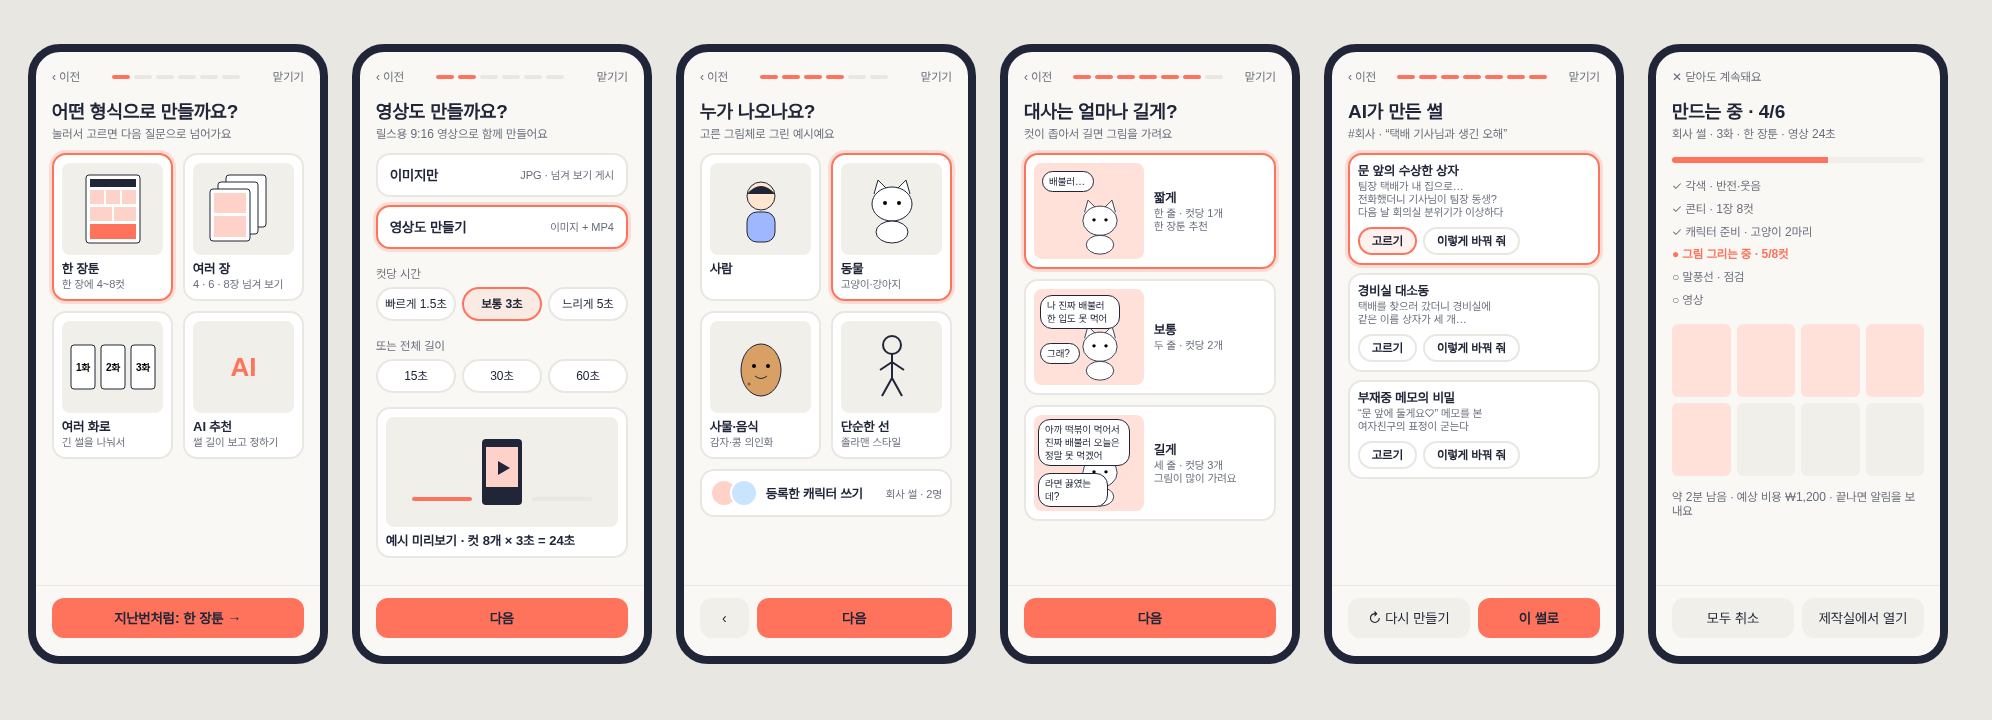
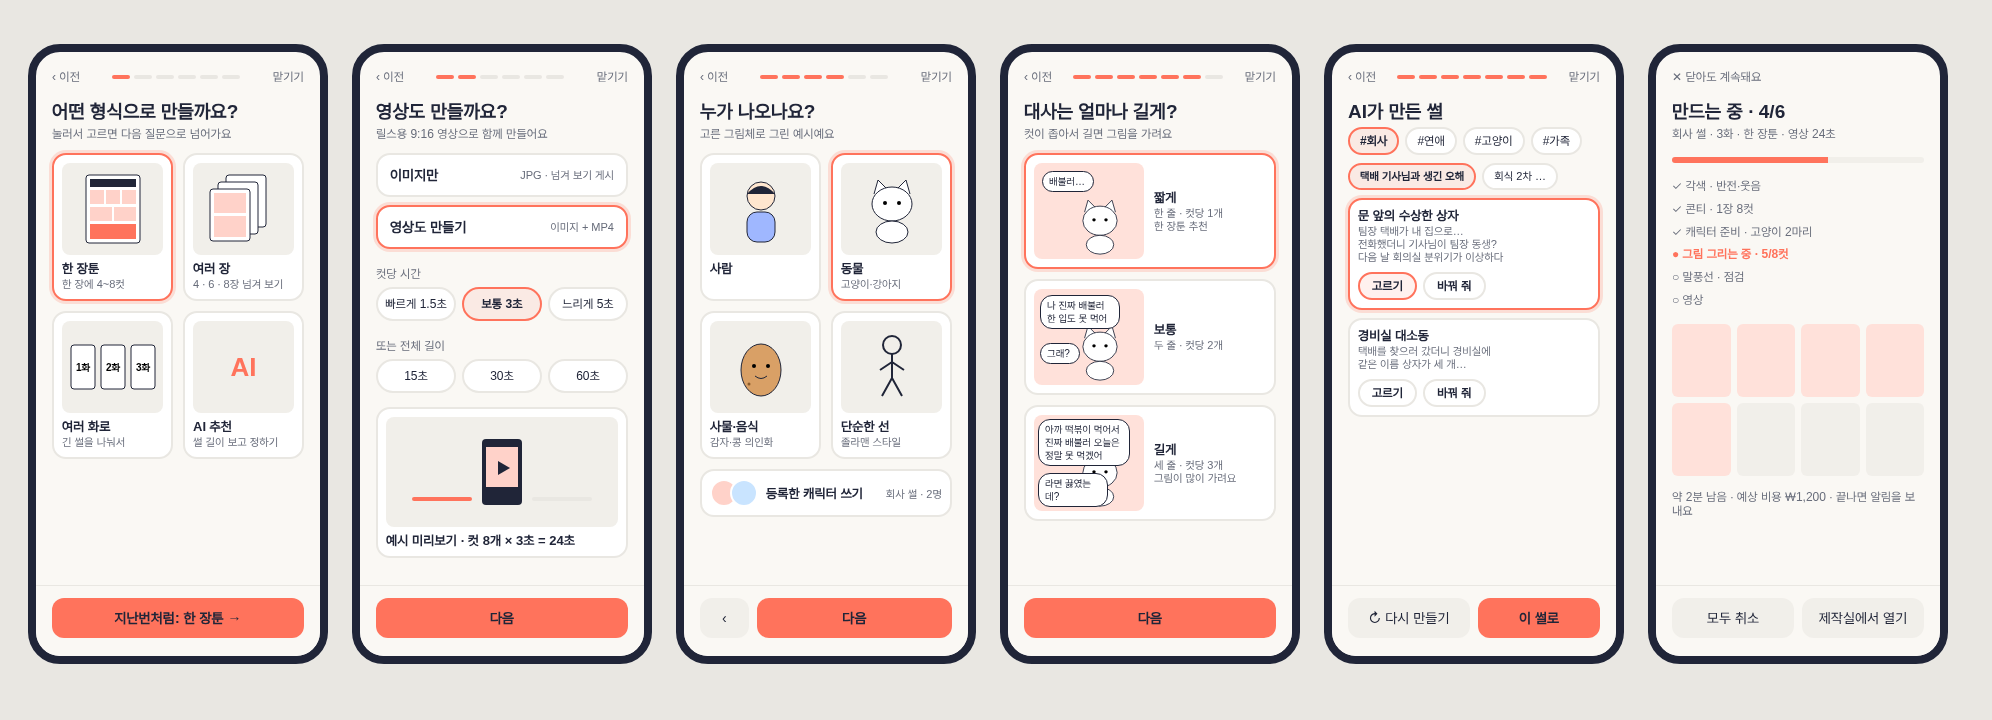
docs(quick): 썰 주제·한 줄 설명도 AI 추천 (QCK-18)

Changed region(s): [[0.6536, 0.1528, 0.8092, 0.6417]]

diff --git a/docs/design/mockups/quick-mockup.html b/docs/design/mockups/quick-mockup.html
@@ -58,7 +58,7 @@ h2{font-size:19px;margin:10px 16px 4px}p.s{font-size:12px;color:#686d7b;margin:0
 <div class="bot"><div class="btn g">‹</div><div class="btn" style="flex:4">다음</div></div>
 </div><div class="cap">④ 등장인물 모양</div></div></div>
 
-<div><div class="ph"><div style="position:absolute;inset:0;overflow:hidden;border-radius:24px;display:flex;flex-direction:column"><div class="top"><span>‹ 이전</span><div class="dots"><i class="on"></i><i class="on"></i><i class="on"></i><i class="on"></i><i class="on"></i><i class="on"></i><i></i></div><span>맡기기</span></div><h2>대사는 얼마나 길게?</h2><p class="s">컷이 좁아서 길면 그림을 가려요</p><div class="grid" style="grid-template-columns:1fr"><div class="c sel" style="display:grid;grid-template-columns:110px 1fr;gap:10px;align-items:center"><div class="th" style="height:96px;margin:0;position:relative;background:#ffe1da;overflow:hidden"><svg width="60" height="60" viewBox="0 0 70 70" style="position:absolute;bottom:4px;right:14px"><path d="M17 20l4-14 10 10M53 20l-4-14-10 10" fill="#fff" stroke="#202538"/><ellipse cx="35" cy="30" rx="20" ry="17" fill="#fff" stroke="#202538"/><circle cx="28" cy="29" r="2"/><circle cx="42" cy="29" r="2"/><ellipse cx="35" cy="58" rx="16" ry="11" fill="#fff" stroke="#202538"/></svg><span style="position:absolute;top:8px;left:8px;width:52px;background:#fff;border:1.5px solid #202538;border-radius:12px;padding:3px 6px;font-size:10px;line-height:1.3;font-weight:500">배불러…</span></div><div>짧게<small>한 줄 · 컷당 1개<br>한 장툰 추천</small></div></div><div class="c " style="display:grid;grid-template-columns:110px 1fr;gap:10px;align-items:center"><div class="th" style="height:96px;margin:0;position:relative;background:#ffe1da;overflow:hidden"><svg width="60" height="60" viewBox="0 0 70 70" style="position:absolute;bottom:4px;right:14px"><path d="M17 20l4-14 10 10M53 20l-4-14-10 10" fill="#fff" stroke="#202538"/><ellipse cx="35" cy="30" rx="20" ry="17" fill="#fff" stroke="#202538"/><circle cx="28" cy="29" r="2"/><circle cx="42" cy="29" r="2"/><ellipse cx="35" cy="58" rx="16" ry="11" fill="#fff" stroke="#202538"/></svg><span style="position:absolute;top:6px;left:6px;width:80px;background:#fff;border:1.5px solid #202538;border-radius:12px;padding:3px 6px;font-size:10px;line-height:1.3;font-weight:500">나 진짜 배불러<br>한 입도 못 먹어</span><span style="position:absolute;top:54px;left:6px;width:40px;background:#fff;border:1.5px solid #202538;border-radius:12px;padding:3px 6px;font-size:10px;line-height:1.3;font-weight:500">그래?</span></div><div>보통<small>두 줄 · 컷당 2개</small></div></div><div class="c " style="display:grid;grid-template-columns:110px 1fr;gap:10px;align-items:center"><div class="th" style="height:96px;margin:0;position:relative;background:#ffe1da;overflow:hidden"><svg width="60" height="60" viewBox="0 0 70 70" style="position:absolute;bottom:4px;right:14px"><path d="M17 20l4-14 10 10M53 20l-4-14-10 10" fill="#fff" stroke="#202538"/><ellipse cx="35" cy="30" rx="20" ry="17" fill="#fff" stroke="#202538"/><circle cx="28" cy="29" r="2"/><circle cx="42" cy="29" r="2"/><ellipse cx="35" cy="58" rx="16" ry="11" fill="#fff" stroke="#202538"/></svg><span style="position:absolute;top:4px;left:4px;width:92px;background:#fff;border:1.5px solid #202538;border-radius:12px;padding:3px 6px;font-size:10px;line-height:1.3;font-weight:500">아까 떡볶이 먹어서<br>진짜 배불러 오늘은<br>정말 못 먹겠어</span><span style="position:absolute;top:58px;left:4px;width:70px;background:#fff;border:1.5px solid #202538;border-radius:12px;padding:3px 6px;font-size:10px;line-height:1.3;font-weight:500">라면 끓였는데?</span></div><div>길게<small>세 줄 · 컷당 3개<br>그림이 많이 가려요</small></div></div></div><div class="bot"><div class="btn">다음</div></div></div></div></div><div><div class="ph"><div style="position:absolute;inset:0;overflow:hidden;border-radius:24px;display:flex;flex-direction:column"><div class="top"><span>‹ 이전</span><div class="dots"><i class="on"></i><i class="on"></i><i class="on"></i><i class="on"></i><i class="on"></i><i class="on"></i><i class="on"></i></div><span>맡기기</span></div><h2>AI가 만든 썰</h2><p class="s">#회사 · “택배 기사님과 생긴 오해”</p><div class="c sel" style="margin:0 16px 8px">문 앞의 수상한 상자<small>팀장 택배가 내 집으로…<br>전화했더니 기사님이 팀장 동생?<br>다음 날 회의실 분위기가 이상하다</small><div style="display:flex;gap:6px;margin-top:8px"><span class="chip sel" style="flex:0 0 auto;padding:5px 12px">고르기</span><span class="chip" style="flex:0 0 auto;padding:5px 12px">이렇게 바꿔 줘</span></div></div><div class="c " style="margin:0 16px 8px">경비실 대소동<small>택배를 찾으러 갔더니 경비실에<br>같은 이름 상자가 세 개…</small><div style="display:flex;gap:6px;margin-top:8px"><span class="chip " style="flex:0 0 auto;padding:5px 12px">고르기</span><span class="chip" style="flex:0 0 auto;padding:5px 12px">이렇게 바꿔 줘</span></div></div><div class="c " style="margin:0 16px 8px">부재중 메모의 비밀<small>“문 앞에 둘게요♡” 메모를 본<br>여자친구의 표정이 굳는다</small><div style="display:flex;gap:6px;margin-top:8px"><span class="chip " style="flex:0 0 auto;padding:5px 12px">고르기</span><span class="chip" style="flex:0 0 auto;padding:5px 12px">이렇게 바꿔 줘</span></div></div><div class="bot"><div class="btn g">↻ 다시 만들기</div><div class="btn">이 썰로</div></div></div></div></div><div><div class="ph"><div style="position:absolute;inset:0;overflow:hidden;border-radius:24px;display:flex;flex-direction:column">
+<div><div class="ph"><div style="position:absolute;inset:0;overflow:hidden;border-radius:24px;display:flex;flex-direction:column"><div class="top"><span>‹ 이전</span><div class="dots"><i class="on"></i><i class="on"></i><i class="on"></i><i class="on"></i><i class="on"></i><i class="on"></i><i></i></div><span>맡기기</span></div><h2>대사는 얼마나 길게?</h2><p class="s">컷이 좁아서 길면 그림을 가려요</p><div class="grid" style="grid-template-columns:1fr"><div class="c sel" style="display:grid;grid-template-columns:110px 1fr;gap:10px;align-items:center"><div class="th" style="height:96px;margin:0;position:relative;background:#ffe1da;overflow:hidden"><svg width="60" height="60" viewBox="0 0 70 70" style="position:absolute;bottom:4px;right:14px"><path d="M17 20l4-14 10 10M53 20l-4-14-10 10" fill="#fff" stroke="#202538"/><ellipse cx="35" cy="30" rx="20" ry="17" fill="#fff" stroke="#202538"/><circle cx="28" cy="29" r="2"/><circle cx="42" cy="29" r="2"/><ellipse cx="35" cy="58" rx="16" ry="11" fill="#fff" stroke="#202538"/></svg><span style="position:absolute;top:8px;left:8px;width:52px;background:#fff;border:1.5px solid #202538;border-radius:12px;padding:3px 6px;font-size:10px;line-height:1.3;font-weight:500">배불러…</span></div><div>짧게<small>한 줄 · 컷당 1개<br>한 장툰 추천</small></div></div><div class="c " style="display:grid;grid-template-columns:110px 1fr;gap:10px;align-items:center"><div class="th" style="height:96px;margin:0;position:relative;background:#ffe1da;overflow:hidden"><svg width="60" height="60" viewBox="0 0 70 70" style="position:absolute;bottom:4px;right:14px"><path d="M17 20l4-14 10 10M53 20l-4-14-10 10" fill="#fff" stroke="#202538"/><ellipse cx="35" cy="30" rx="20" ry="17" fill="#fff" stroke="#202538"/><circle cx="28" cy="29" r="2"/><circle cx="42" cy="29" r="2"/><ellipse cx="35" cy="58" rx="16" ry="11" fill="#fff" stroke="#202538"/></svg><span style="position:absolute;top:6px;left:6px;width:80px;background:#fff;border:1.5px solid #202538;border-radius:12px;padding:3px 6px;font-size:10px;line-height:1.3;font-weight:500">나 진짜 배불러<br>한 입도 못 먹어</span><span style="position:absolute;top:54px;left:6px;width:40px;background:#fff;border:1.5px solid #202538;border-radius:12px;padding:3px 6px;font-size:10px;line-height:1.3;font-weight:500">그래?</span></div><div>보통<small>두 줄 · 컷당 2개</small></div></div><div class="c " style="display:grid;grid-template-columns:110px 1fr;gap:10px;align-items:center"><div class="th" style="height:96px;margin:0;position:relative;background:#ffe1da;overflow:hidden"><svg width="60" height="60" viewBox="0 0 70 70" style="position:absolute;bottom:4px;right:14px"><path d="M17 20l4-14 10 10M53 20l-4-14-10 10" fill="#fff" stroke="#202538"/><ellipse cx="35" cy="30" rx="20" ry="17" fill="#fff" stroke="#202538"/><circle cx="28" cy="29" r="2"/><circle cx="42" cy="29" r="2"/><ellipse cx="35" cy="58" rx="16" ry="11" fill="#fff" stroke="#202538"/></svg><span style="position:absolute;top:4px;left:4px;width:92px;background:#fff;border:1.5px solid #202538;border-radius:12px;padding:3px 6px;font-size:10px;line-height:1.3;font-weight:500">아까 떡볶이 먹어서<br>진짜 배불러 오늘은<br>정말 못 먹겠어</span><span style="position:absolute;top:58px;left:4px;width:70px;background:#fff;border:1.5px solid #202538;border-radius:12px;padding:3px 6px;font-size:10px;line-height:1.3;font-weight:500">라면 끓였는데?</span></div><div>길게<small>세 줄 · 컷당 3개<br>그림이 많이 가려요</small></div></div></div><div class="bot"><div class="btn">다음</div></div></div></div></div><div><div class="ph"><div style="position:absolute;inset:0;overflow:hidden;border-radius:24px;display:flex;flex-direction:column"><div class="top"><span>‹ 이전</span><div class="dots"><i class="on"></i><i class="on"></i><i class="on"></i><i class="on"></i><i class="on"></i><i class="on"></i><i class="on"></i></div><span>맡기기</span></div><h2>AI가 만든 썰</h2><div class="chips" style="flex-wrap:wrap"><div class="chip sel" style="flex:0 0 auto;padding:5px 10px">#회사</div><div class="chip" style="flex:0 0 auto;padding:5px 10px">#연애</div><div class="chip" style="flex:0 0 auto;padding:5px 10px">#고양이</div><div class="chip" style="flex:0 0 auto;padding:5px 10px">#가족</div></div><div class="chips"><div class="chip sel" style="flex:0 0 auto;padding:5px 10px;font-size:11px">택배 기사님과 생긴 오해</div><div class="chip" style="flex:0 0 auto;padding:5px 10px;font-size:11px">회식 2차 …</div></div><div class="c sel" style="margin:0 16px 8px">문 앞의 수상한 상자<small>팀장 택배가 내 집으로…<br>전화했더니 기사님이 팀장 동생?<br>다음 날 회의실 분위기가 이상하다</small><div style="display:flex;gap:6px;margin-top:8px"><span class="chip sel" style="flex:0 0 auto;padding:5px 12px">고르기</span><span class="chip" style="flex:0 0 auto;padding:5px 12px">바꿔 줘</span></div></div><div class="c " style="margin:0 16px 8px">경비실 대소동<small>택배를 찾으러 갔더니 경비실에<br>같은 이름 상자가 세 개…</small><div style="display:flex;gap:6px;margin-top:8px"><span class="chip " style="flex:0 0 auto;padding:5px 12px">고르기</span><span class="chip" style="flex:0 0 auto;padding:5px 12px">바꿔 줘</span></div></div><div class="bot"><div class="btn g">↻ 다시 만들기</div><div class="btn">이 썰로</div></div></div></div></div><div><div class="ph"><div style="position:absolute;inset:0;overflow:hidden;border-radius:24px;display:flex;flex-direction:column">
 <div class="top"><span>✕ 닫아도 계속돼요</span><span></span></div>
 <h2>만드는 중 · 4/6</h2><p class="s">회사 썰 · 3화 · 한 장툰 · 영상 24초</p>
 <div class="bar"><b></b></div>

diff --git a/docs/features/quick.md b/docs/features/quick.md
@@ -6,7 +6,7 @@
 제작실의 5단계를 하나씩 다루지 않고, **예시를 보고 누르는 질문 몇 개**에 답하면 나머지는 AI가 끝까지 만든다. 휴대폰에서 한 손으로도 한 편을 만들 수 있게 한다.
 
 ## 2. 사용자 스토리
-- 쓸 썰이 없으면 주제만 고르고 AI가 만든 썰 중에서 고르고 싶다.
+- 쓸 썰이 없으면 AI가 추천한 주제를 누르고, AI가 만든 썰 중에서 고르고 싶다.
 - 컷이 좁으니 대사 길이를 정해서 그림이 말풍선에 덮이지 않게 하고 싶다.
 - 출퇴근길에 휴대폰으로 썰 하나를 넣고, 몇 번 눌러서 한 편을 받고 싶다.
 - 형식·영상·그림체를 글로 설명하지 않고 예시를 보고 고르고 싶다.
@@ -40,7 +40,7 @@
 | QCK-15 | ⑤ 이야기 방향 | **반전·웃음** / **감정선** / **원작에 충실** / **원문 그대로**(각색 없이, STO-25). 선택지마다 예시 한 줄 | 2 |
 | QCK-16 | ⑥ 대사 길이 | **짧게**(말풍선 한 줄, 컷당 1개) / **보통**(두 줄, 컷당 2개) / **길게**(세 줄, 컷당 3개). 예시는 같은 컷에 말풍선이 얼마나 덮이는지 보여 준다. 기본은 한 장툰이면 짧게, 여러 장이면 보통. 콘티의 대사가 이 길이를 넘지 않게 만든다 ([storyboard.md](./storyboard.md)) | 2 |
 | QCK-17 | ⑦ 썰 | **붙여넣기** / **제보함에서 고르기** / **AI가 만들어 주기**(QCK-18). 제보에서 시작했으면 건너뛴다 | 2 |
-| QCK-18 | 썰 만들기 | 주제 칩(회사·연애·가족·학교·일상·동물)과 한 줄 설명(선택)을 주면 AI가 썰 **3개**를 카드(제목 + 세 줄 요약, 누르면 전문)로 보여 준다. **고르기** / **다시 만들기**(3개 새로) / 카드의 **이렇게 바꿔 줘**(부연 설명을 쓰면 그 안을 고친 버전). 고른 썰은 제보함에 "AI가 만든 썰"로 저장된다 ([inbox.md](./inbox.md)) | 2 |
+| QCK-18 | 썰 만들기 | AI가 **주제 칩 4~6개**를 추천한다(지금 작품의 지난 화, 고른 형식·등장인물 모양에 맞춰. 예: #회사 #연애 #고양이). 주제를 누르면 **한 줄 설명 3개**가 추천된다(예: "택배 기사님과 생긴 오해"). 누르기만 하면 되고 고쳐 써도 된다. 둘 다 건너뛰는 **알아서 3개 만들어 줘**도 있다. 그러면 AI가 썰 **3개**를 카드(제목 + 세 줄 요약, 누르면 전문)로 보여 준다. **고르기** / **다시 만들기**(3개 새로) / 카드의 **이렇게 바꿔 줘**(부연 설명을 쓰면 그 안을 고친 버전). 고른 썰은 제보함에 "AI가 만든 썰"로 저장된다 ([inbox.md](./inbox.md)) | 2 |
 | QCK-19 | 썰 맞춤 질문 | 썰을 읽은 AI가 꼭 필요한 것만 1~2개 더 묻는다. 예: 펀치라인 후보 2~3개 중 고르기, 실명·회사명이 보이면 바꿀 이름 고르기 ([review.md](./review.md) 개인정보 점검) | 3 |
 | QCK-20 | 확인 | 고른 답 요약(누르면 그 질문으로), 작품, 예상 비용·시간, 확인 단계 켜기(각색안·콘티, 기본 꺼짐) → **만들기**. 월 한도를 넘으면 시작하지 않는다 ([ai-usage.md](./ai-usage.md) AIU-20) | 2 |
 
